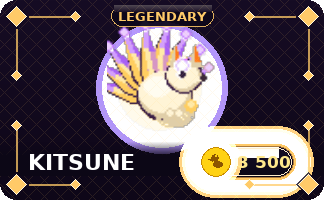
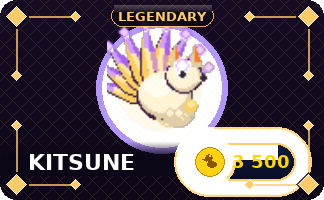
Redesign price chip: HUD-matching navy, correct glow, fixed sheen, UI_GOLD text
- Body: dark navy gradient (18,28,65)→(10,14,38) matching HUD coin pill, not purple
- Glow: 8-layer BLEND_ADD with ga=60/gi — produces real visible gold bleed at chip edge
- Sheen: separate SRCALPHA surface + BLEND_RGBA_ADD, fixes pixel-replace bug
- Text: UI_GOLD (255,215,0) matching game HUD, 18pt bold
- Coin halo: peak_alpha=180 (was 130), layers=10 for stronger presence
- Simplified to single 2px GEM border (concentric ring clutter removed)

Claude-Session: https://claude.ai/code/session_01PHa7j1dH3g5BMmmcCU5mZW

Changed region(s): [[0.5247, 0.69, 0.9259, 0.99], [0.6481, 0.63, 0.9568, 0.75], [0.9568, 0.75, 0.9877, 0.87]]

diff --git a/tools/render_baroque_v5_r2.py b/tools/render_baroque_v5_r2.py
@@ -114,52 +114,54 @@ for i in range(14):
 pygame.draw.rect(card, (12, 7, 22), (0, band_y + 7, W, INNER_BOT - band_y - 7))
 
 fnt_name  = pygame.font.SysFont("DejaVu Sans", 22, bold=True)
-fnt_price = pygame.font.SysFont("DejaVu Sans", 17, bold=True)
+fnt_price = pygame.font.SysFont("DejaVu Sans", 18, bold=True)
 name_s  = fnt_name.render("KITSUNE", True, (255, 255, 255))
-price_s = fnt_price.render("3 500", True, (255, 232, 140))   # bright warm gold
+price_s = fnt_price.render("3 500", True, (255, 215, 0))   # game's UI_GOLD
 ty = band_y + (FOOTER_H - name_s.get_height()) // 2
 card.blit(name_s, (FLOU_INSET + LARGE_PIP_R + 2, ty))
 
-COIN_R = 14                                              # parrot legible at display scale
-GAP_CT = 7
-chip_w = 5 + COIN_R * 2 + GAP_CT + price_s.get_width() + 5
-chip_h = COIN_R * 2 + 8                                 # coin-driven: 36 px
-chip_x = W - FLOU_INSET - LARGE_PIP_R - 2 - chip_w     # right edge at x=296
+COIN_R = 14
+chip_w = 6 + COIN_R * 2 + 8 + price_s.get_width() + 6
+chip_h = COIN_R * 2 + 10   # 38 px
+chip_x = W - FLOU_INSET - LARGE_PIP_R - 2 - chip_w
 chip_y = ty + (name_s.get_height() - chip_h) // 2
-# ── 1. Outer glow: BLEND_ADD at ga 17→100, effective RGB add up to (100,79,41) ──
-for gi in range(6, 0, -1):
-    gs = pygame.Surface((chip_w + gi * 6, chip_h + gi * 6), pygame.SRCALPHA)
-    ga = int(100 * (1 - (gi - 1) / 6))
-    pygame.draw.rect(gs, (*GEM, ga), (0, 0, chip_w + gi*6, chip_h + gi*6),
-                     border_radius=(chip_h + gi*6) // 2)
-    card.blit(gs, (chip_x - gi*3, chip_y - gi*3), special_flags=pygame.BLEND_ADD)
-# ── 2. Chip body: top-lit dark gradient clipped to pill ──
+# ── 1. Outer glow: 8 rect layers, ga=60/gi → real visible gold bleed ──────────
+for gi in range(8, 0, -1):
+    gw = chip_w + gi * 4
+    gh = chip_h + gi * 4
+    gs = pygame.Surface((gw, gh), pygame.SRCALPHA)
+    ga = min(255, int(60 / gi))
+    pygame.draw.rect(gs, (*GEM, ga), (0, 0, gw, gh), border_radius=gh // 2)
+    card.blit(gs, (chip_x - gi*2, chip_y - gi*2), special_flags=pygame.BLEND_ADD)
+# ── 2. Chip body: HUD-matching dark navy gradient clipped to pill ────────────
 chip_surf = pygame.Surface((chip_w, chip_h), pygame.SRCALPHA)
 for yy in range(chip_h):
     t = yy / max(1, chip_h - 1)
-    chip_surf.fill((int(20*(1-t)+8*t), int(11*(1-t)+5*t), int(36*(1-t)+18*t), 252),
-                   (0, yy, chip_w, 1))
+    chip_surf.fill(
+        (int(18*(1-t)+10*t), int(28*(1-t)+14*t), int(65*(1-t)+38*t), 255),
+        (0, yy, chip_w, 1)
+    )
 pmask = pygame.Surface((chip_w, chip_h), pygame.SRCALPHA)
 pygame.draw.rect(pmask, (255, 255, 255, 255), (0, 0, chip_w, chip_h), border_radius=chip_h // 2)
 chip_surf.blit(pmask, (0, 0), special_flags=pygame.BLEND_RGBA_MIN)
-# ── 3. Top sheen: top 40%, power-2 curve, peak 120 ──
-for yy in range(int(chip_h * 0.4)):
-    a = int((1 - yy / (chip_h * 0.4)) ** 2 * 120)
-    pygame.draw.line(chip_surf, (255, 248, 210, a),
+# ── 3. Top sheen: separate surface + BLEND_RGBA_ADD (fixes pixel-replace bug) ─
+sheen = pygame.Surface((chip_w, chip_h), pygame.SRCALPHA)
+for yy in range(int(chip_h * 0.45)):
+    a = int((1 - yy / (chip_h * 0.45)) ** 2 * 150)
+    pygame.draw.line(sheen, (255, 250, 220, a),
                      (chip_h // 2, yy), (chip_w - chip_h // 2, yy))
-# ── 4. Three concentric borders: outer gold, dark bevel, inner gold catch ──
-pygame.draw.rect(chip_surf, (*GEM, 255),  (0, 0, chip_w,   chip_h),   2, border_radius=chip_h // 2)
-pygame.draw.rect(chip_surf, (*DEEP, 210), (2, 2, chip_w-4, chip_h-4), 1, border_radius=chip_h // 2 - 1)
-pygame.draw.rect(chip_surf, (*GEM, 90),   (4, 4, chip_w-8, chip_h-8), 1, border_radius=chip_h // 2 - 2)
+chip_surf.blit(sheen, (0, 0), special_flags=pygame.BLEND_RGBA_ADD)
+# ── 4. 2px GEM outer border ──────────────────────────────────────────────────
+pygame.draw.rect(chip_surf, (*GEM, 255), (0, 0, chip_w, chip_h), 2, border_radius=chip_h // 2)
 card.blit(chip_surf, (chip_x, chip_y))
-# ── 5. Coin: strong halo + exact game parrot coin at r=14 ──
-coin_cx = chip_x + 5 + COIN_R
+# ── 5. Coin: large halo + exact game coin ────────────────────────────────────
+coin_cx = chip_x + 6 + COIN_R
 coin_cy = chip_y + chip_h // 2
-soft_glow(card, coin_cx, coin_cy, COIN_R + 12, GEM, peak_alpha=130, layers=8)
+soft_glow(card, coin_cx, coin_cy, COIN_R + 12, GEM, peak_alpha=180, layers=10)
 real_coin_icon(card, coin_cx, coin_cy, COIN_R)
-# ── 6. Price numeral: vertically centered in chip ──
+# ── 6. Price numeral: vertically centered in chip ────────────────────────────
 text_y = chip_y + (chip_h - price_s.get_height()) // 2
-card.blit(price_s, (chip_x + 5 + COIN_R * 2 + GAP_CT, text_y))
+card.blit(price_s, (chip_x + 6 + COIN_R * 2 + 8, text_y))
 
 # Corner flourishes drawn last so they sit on top of the nameplate
 card.blit(fl_s, (0, 0))
